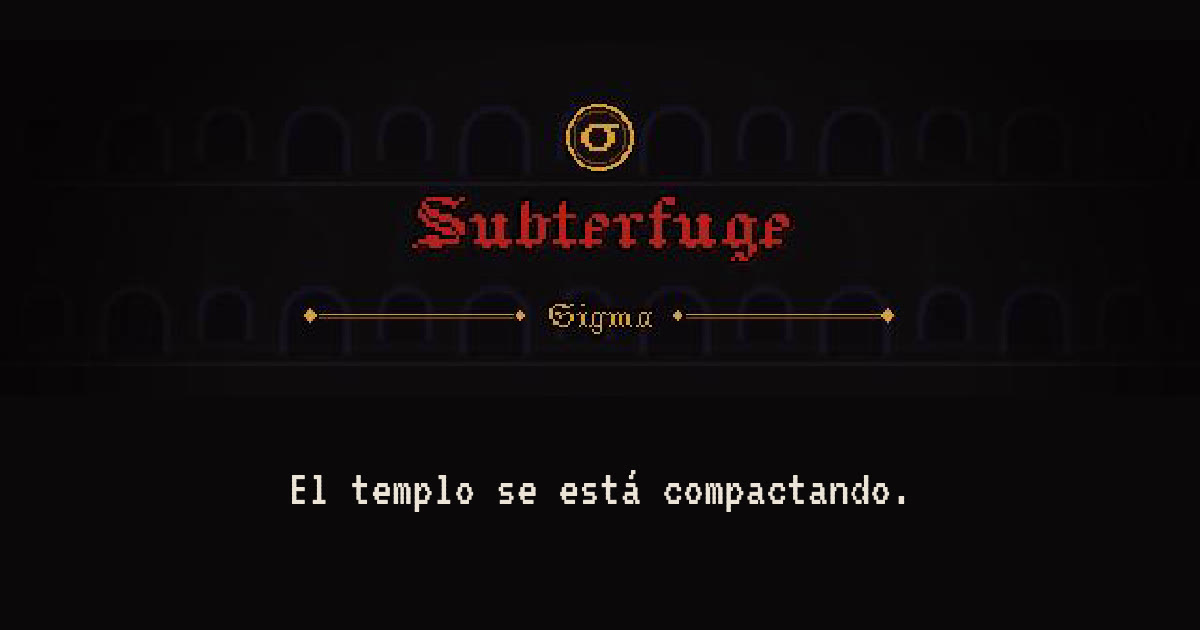
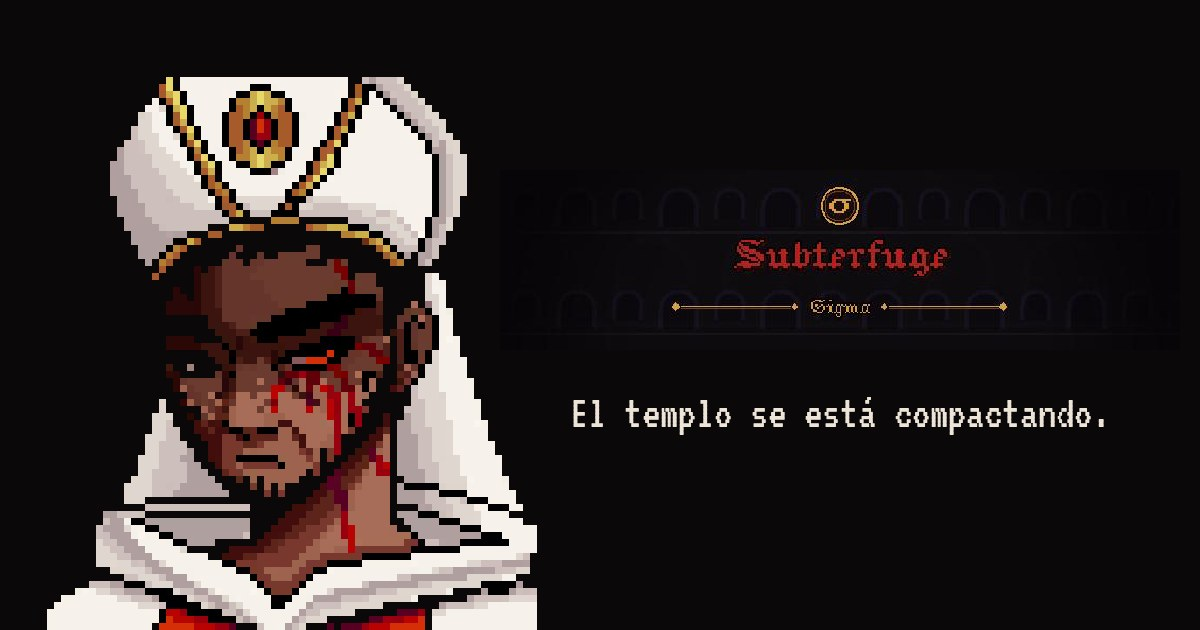
✨ feat(web): el Cirujano de Mariana en la entrada de Sigma y el Portal
El diseño ya no es provisional: es el de Mariana. La entrada de Sigma
lo presenta con su retrato (a x3, sin suavizar) y unas líneas: Mano del
Sacramento N.º 7, las Manos no miran lo que cortan, un día él miró. El
aviso dice ahora lo que sí es provisional: los sprites del juego.

La imagen para compartir lleva el retrato junto al logo, y la tarjeta
de Sigma en el Portal, su rostro (36x36, al doble) en vez del emblema.

Closes #247

Changed region(s): [[0.0308, 0.1206, 0.8325, 1.0], [0.4625, 0.6333, 0.925, 0.6937], [0.4625, 0.1508, 0.555, 0.2714]]

diff --git a/public/sigma/index.html b/public/sigma/index.html
@@ -70,6 +70,38 @@
         margin: 0;
         font-size: 30px;
       }
+      /* El Cirujano de Mariana (#247): su retrato a x3, sin suavizar. */
+      .presentacion {
+        width: 100%;
+        display: flex;
+        align-items: center;
+        gap: 28px;
+        text-align: left;
+      }
+      .presentacion h2 {
+        margin: 0 0 8px;
+        font-family: 'Jacquard 12', serif;
+        font-weight: 400;
+        font-size: 40px;
+        color: var(--oro);
+      }
+      .presentacion p {
+        margin: 0 0 10px;
+      }
+      .retrato {
+        flex: none;
+        width: 213px;
+        height: 237px;
+        image-rendering: pixelated;
+        border: 2px solid var(--oro);
+        background: var(--panel);
+      }
+      @media (max-width: 560px) {
+        .presentacion {
+          flex-direction: column;
+          text-align: center;
+        }
+      }
       .aviso {
         width: 100%;
         border: 2px solid var(--oro);
@@ -165,13 +197,30 @@
         height="340"
         alt="Subterfuge Sigma"
       />
-      <p class="lema">El templo se está compactando. Bajas a averiguar por qué.</p>
+      <section class="presentacion" aria-labelledby="titulo-cirujano">
+        <img
+          class="retrato"
+          src="./cirujano.png"
+          width="71"
+          height="79"
+          alt="El Cirujano: mitra blanca con una gema roja, el rostro descubierto y el ojo izquierdo rojo, sangrando"
+        />
+        <div>
+          <h2 id="titulo-cirujano">El Cirujano</h2>
+          <p>
+            Mano del Sacramento N.º 7. Las Manos operan con una máscara ciega y nunca miran
+            lo que cortan. Un día, él miró.
+          </p>
+          <p class="lema">El templo se está compactando. Bajas a averiguar por qué.</p>
+        </div>
+      </section>
 
       <section class="aviso" aria-labelledby="titulo-aviso">
-        <h2 id="titulo-aviso">Demo en desarrollo · arte provisional</h2>
+        <h2 id="titulo-aviso">Demo en desarrollo · sprites provisionales</h2>
         <p>
-          El Cirujano y el resto de personajes llevan un diseño provisional, hecho para poder
-          jugar. El arte definitivo se está pintando a mano, píxel a píxel.
+          El diseño de los personajes es el de Mariana Echeverri, pintado a mano. Las figuras
+          que se mueven en el juego todavía son provisionales, hechas en código para poder
+          jugar, hasta que lleguen sus sprites.
         </p>
       </section>
 

diff --git a/web/src/paginas/portada.ts b/web/src/paginas/portada.ts
@@ -112,9 +112,9 @@ export function renderPortada(contenedor: HTMLElement): () => void {
             <h3>Subterfuge</h3>
             <p>Acompañe a las Manos del Sacramento N.º 7 en una jornada ordinaria de trabajo.</p>
           </a>
-          <!-- Sigma (#236): con su emblema, no con su Cirujano, que es provisional. -->
+          <!-- Sigma (#247): con el rostro del Cirujano de Mariana, a x2. -->
           <a class="tarjeta" href="${import.meta.env.BASE_URL}sigma/">
-            <img class="lamina" src="${import.meta.env.BASE_URL}sigma/icono-180.png" width="72" height="72" alt="" aria-hidden="true" />
+            <img class="lamina" src="${import.meta.env.BASE_URL}sigma/cirujano-cara.png" width="72" height="72" alt="" aria-hidden="true" />
             <span class="profundidad">capa VII · el asentamiento</span>
             <h3>Subterfuge Sigma</h3>
             <p>Los muros se mueven y la carne no llega. Una Mano baja sin turno a ver por qué.</p>
